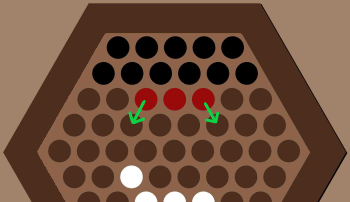
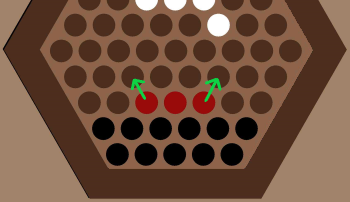
Adjusted RulesPanel images, component colors
- Flipped RulesPanel images to reflect new player positions
- Tweaked rule label wording
- Changed menu button colors to reflect new board color

diff --git a/src/main/java/abalone/RulesPanel.java b/src/main/java/abalone/RulesPanel.java
@@ -71,10 +71,10 @@ public class RulesPanel extends JPanel
         ruleLabels[23] = new JLabel("      - The images below show the board before and after a broadside move.");
         ruleLabels[24] = new JLabel(selectMultiple);
         ruleLabels[25] = new JLabel(broadsideRight);
-        ruleLabels[26] = new JLabel("      - NOTE: The spaces BETWEEN those indicated by the green arrows should not be selected when making a broadside move.");
+        ruleLabels[26] = new JLabel("      - NOTE: The spaces BETWEEN those indicated by the green arrows cannot be selected when making a broadside move.");
         ruleLabels[27] = new JLabel("          ~ The travel direction to these spaces is ambiguous, so selecting them when making a broadside move");
         ruleLabels[28] = new JLabel("               may cause your line of pieces to move in ways you might not have intended.");
-        ruleLabels[29] = new JLabel("      - Do not try to move your line of selected pieces directly east or west when attempting a broadside move.");
+        ruleLabels[29] = new JLabel("      - Do not try to move in directions parallel the your line of pieces when attempting a broadside move.");
         ruleLabels[30] = new JLabel("          ~ This would be equivalent to an in-line move. Find directions on how to make in-line moves above.");
         ruleLabels[31] = new JLabel("      ");
         ruleLabels[32] = new JLabel("   Pushing Your Opponent");

diff --git a/src/main/java/abalone/AbaloneMenu.java b/src/main/java/abalone/AbaloneMenu.java
@@ -20,8 +20,7 @@ public class AbaloneMenu extends JFrame
 	private JPanel goodByePanel = new JPanel();
 	private JLabel goodByeLabel = new JLabel("Thanks for playing!", SwingConstants.CENTER);
 	private Color backgroundColor = new Color(182, 155, 136);
-	private Color boardColorLight = new Color(182, 155, 126);
-	private Color boardColorDark = new Color(75, 45, 30);
+	private Color boardColorDark = new Color(75, 55, 45);
 
 	//Constructor
 	public AbaloneMenu()
